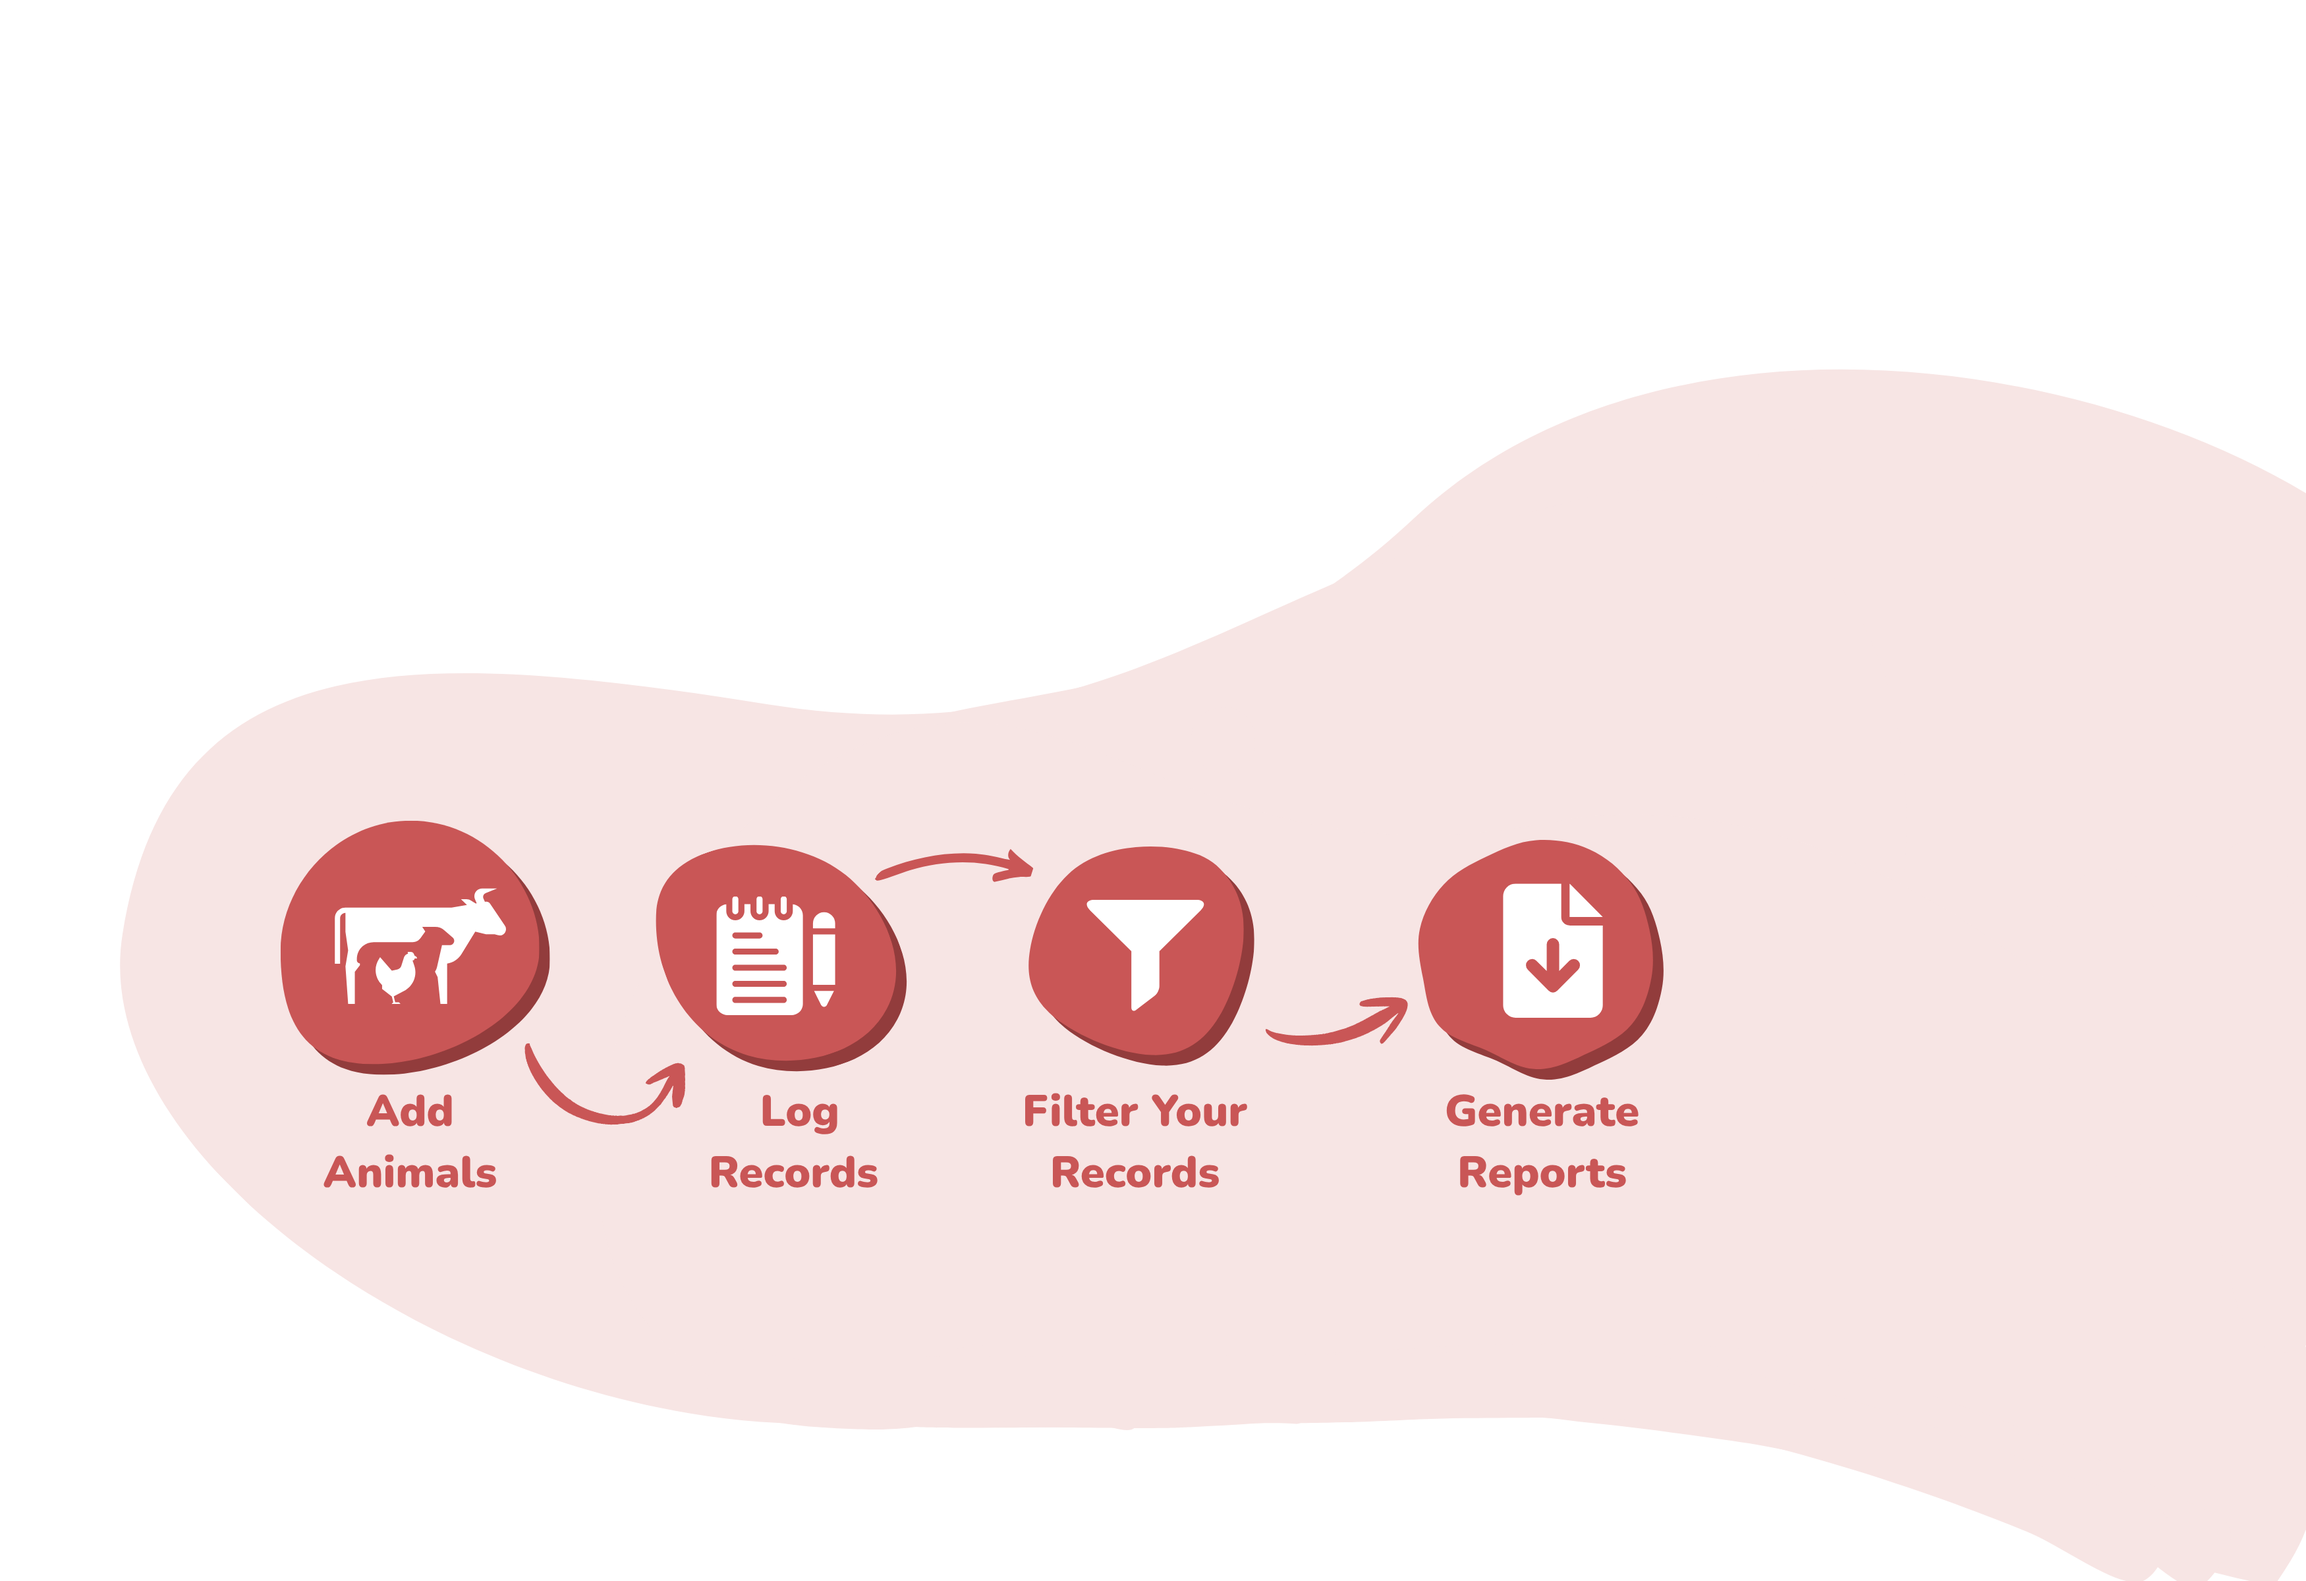
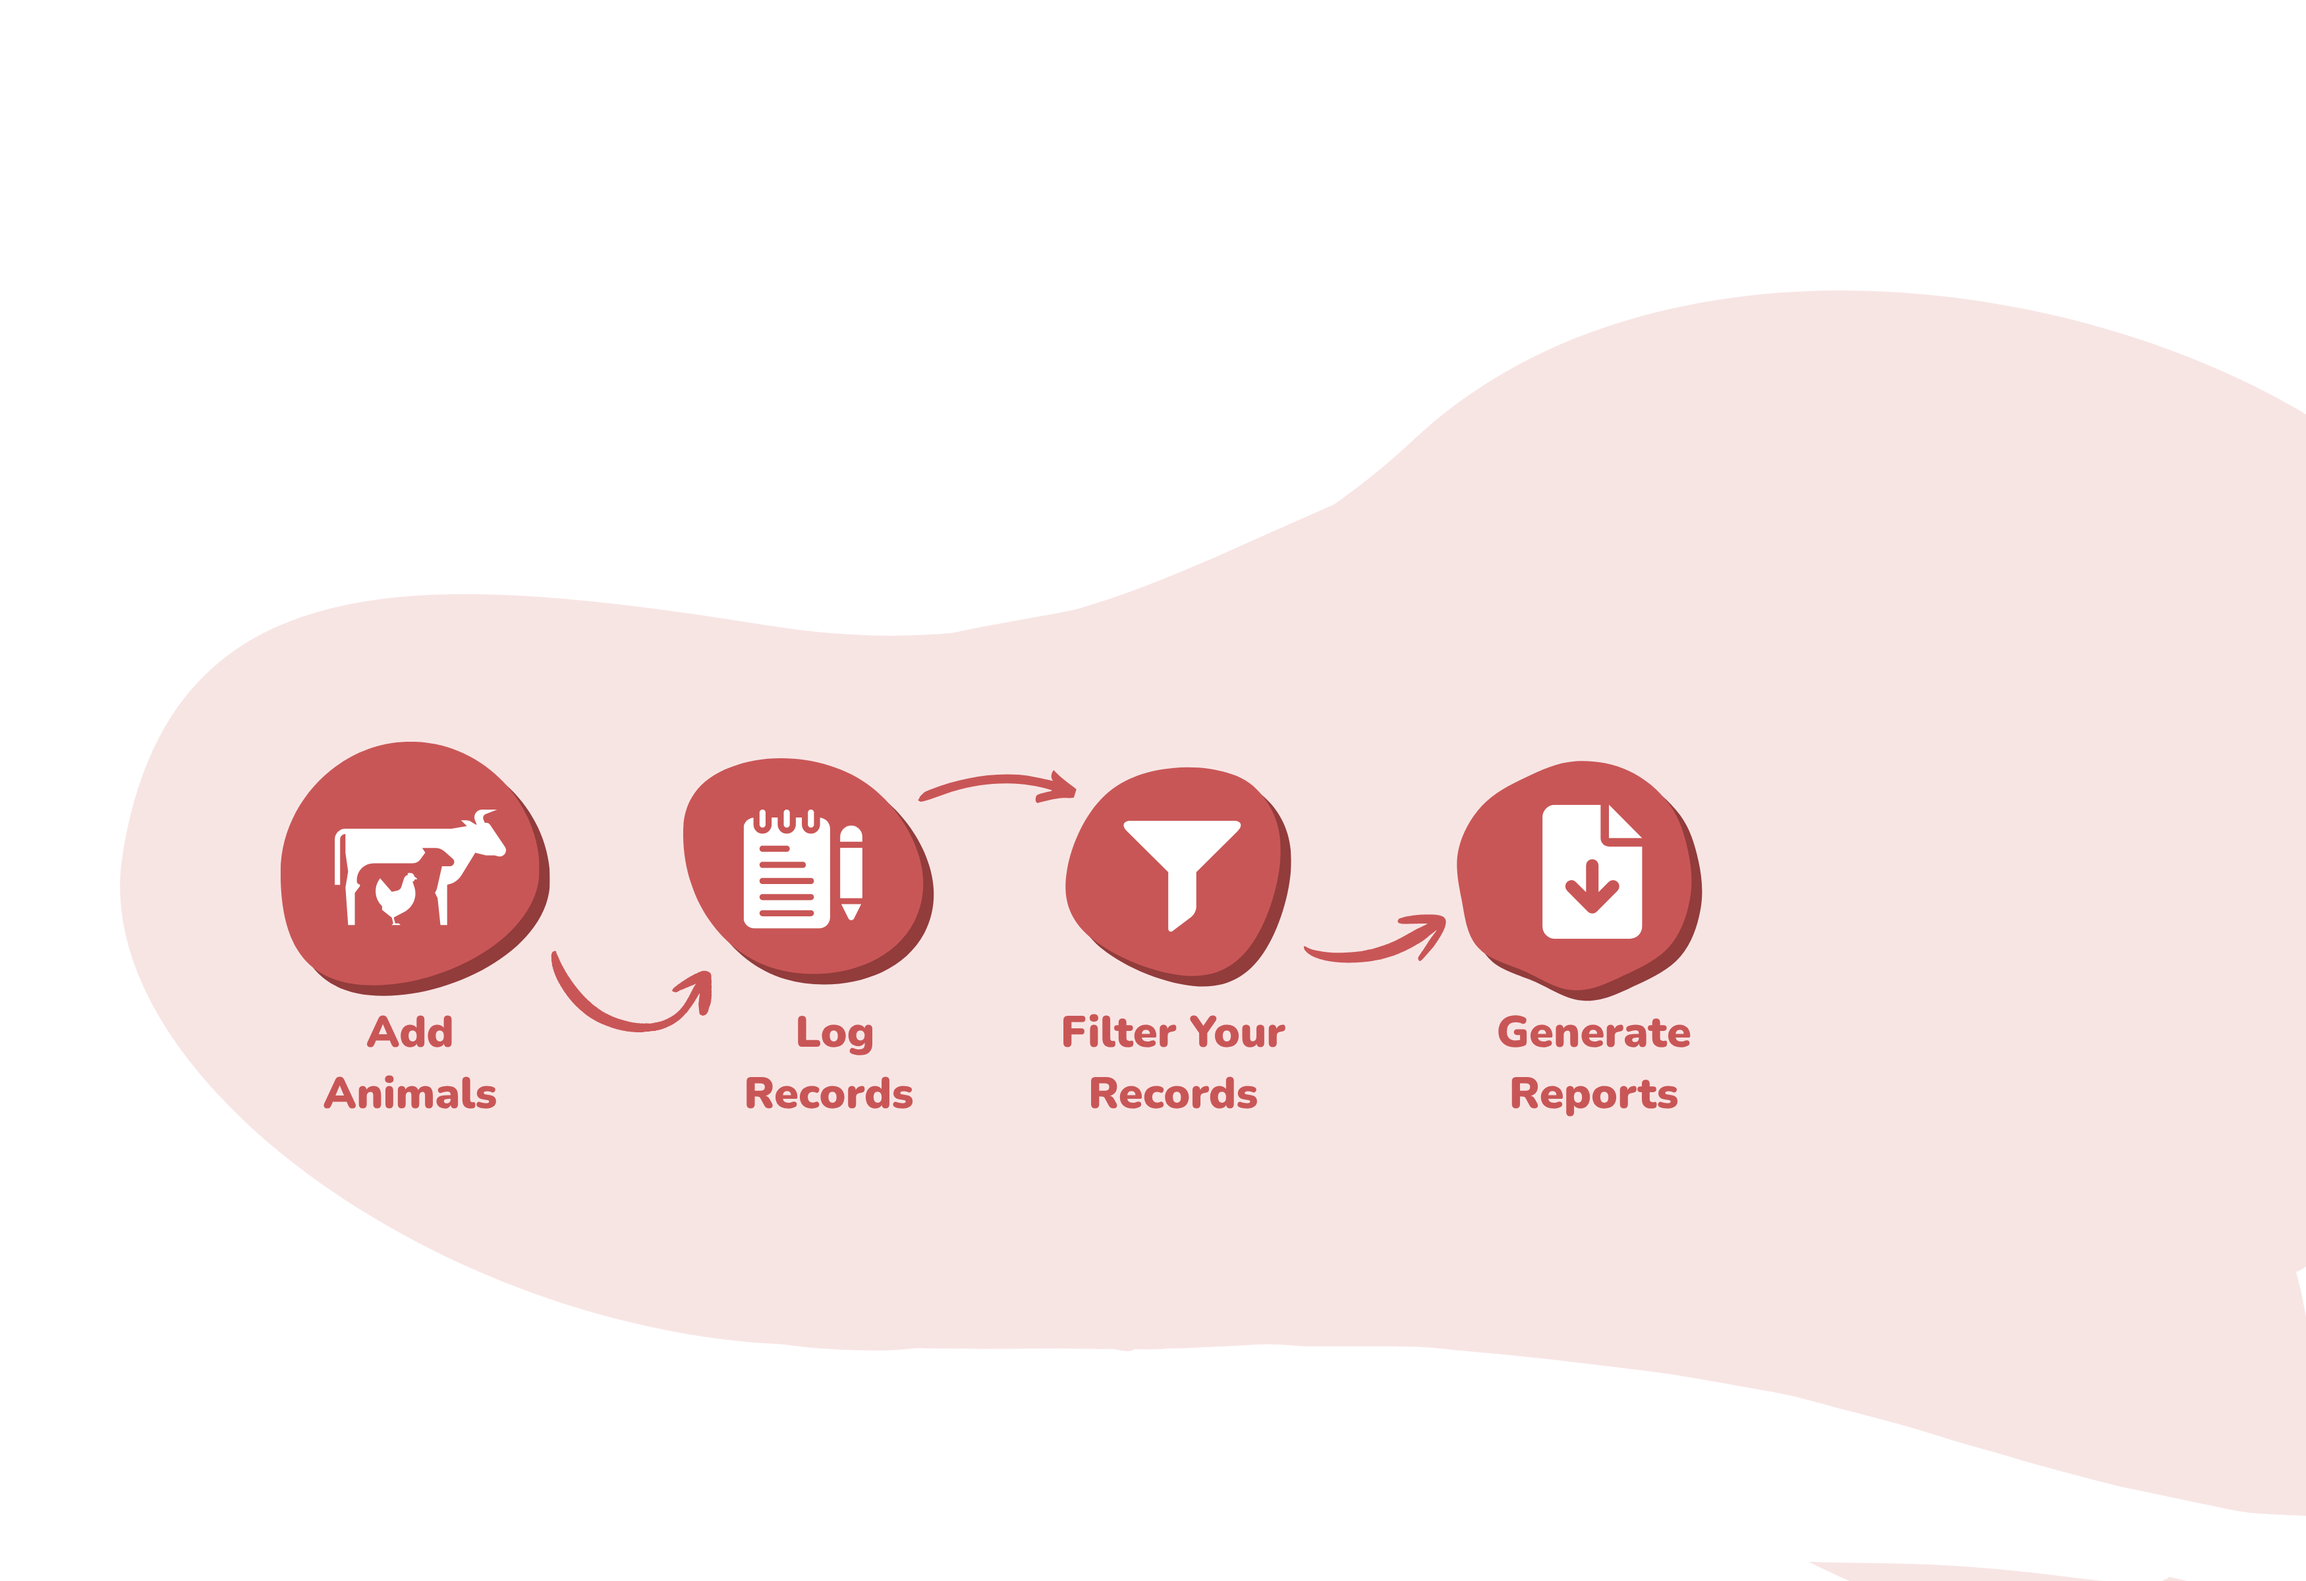
Update landing graphic; retune desktop lift
Swap in the revised landing artwork (?v=3). Its left side starts a touch
higher in the canvas, which put the artwork 5px into the hero copy zone
at the old offset, so the desktop lift eases from -310px to -285px,
restoring 20px of clearance. Mobile needs no change: the blob's topmost
point moved lower in the canvas, growing its badge clearance on phones.

Changed region(s): [[0.0311, 0.1562, 1.0, 1.0], [0.9966, 0.7812, 1.0, 0.8438]]

diff --git a/docs/index.html b/docs/index.html
@@ -13,7 +13,7 @@
   <link rel="icon" type="image/png" sizes="96x96" href="./favicon-96x96.png?v=20260724" />
   <link rel="icon" type="image/png" sizes="192x192" href="./favicon-192x192.png?v=20260724" />
   <link rel="apple-touch-icon" sizes="180x180" href="./apple-touch-icon.png?v=20260724" />
-  <link rel="stylesheet" href="./styles.css?v=20260818e" />
+  <link rel="stylesheet" href="./styles.css?v=20260818f" />
 </head>
 <body>
   <header class="site-header">
@@ -47,7 +47,7 @@
       </div>
 
       <figure class="hero-usp">
-        <img src="./images/graphic-landing-page.png?v=2" alt="How LivestockBook works: add animals, log records, filter your records, generate reports" loading="eager" />
+        <img src="./images/graphic-landing-page.png?v=3" alt="How LivestockBook works: add animals, log records, filter your records, generate reports" loading="eager" />
       </figure>
     </section>
 

diff --git a/docs/styles.css b/docs/styles.css
@@ -296,7 +296,7 @@ h2,
   /* The PNG carries 19.5% transparent padding on top, and its left side (which
      sits under the hero copy) stays empty until 35.6% down, so it can be
      pulled up hard without the artwork colliding with the text. */
-  margin: -310px 0 0;
+  margin: -285px 0 0;
   padding-left: calc((100% - min(var(--content-frame-width), 100% - 48px)) / 2);
 }
 
